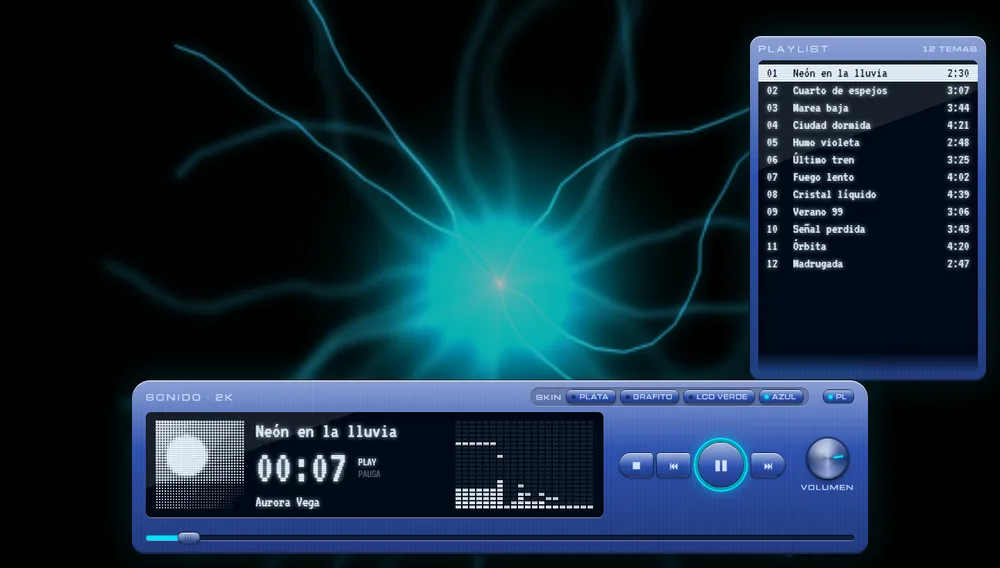
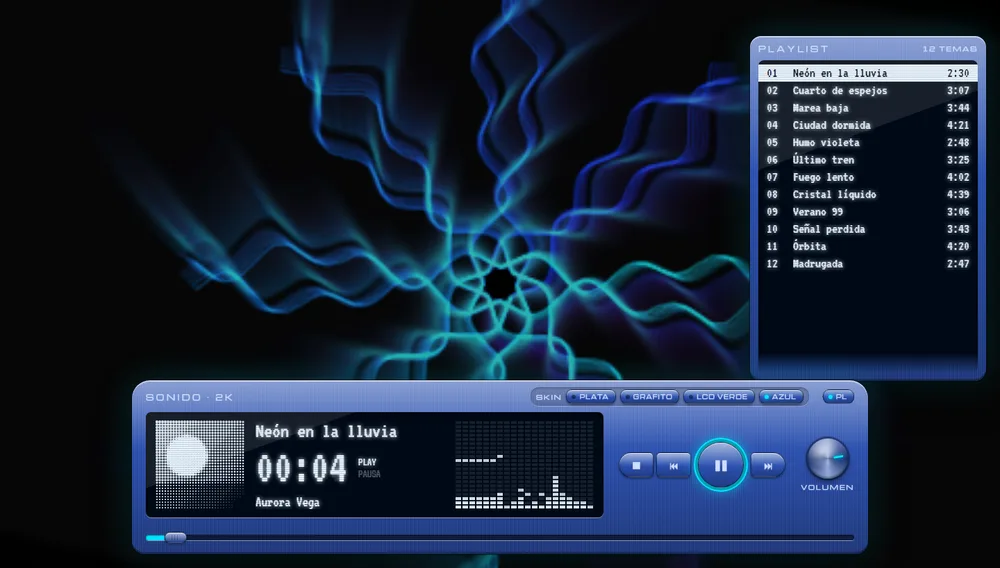
2000s: 10 visualizaciones repartidas por skin, fundido entre ellas y opcion de cada cuanto cambian

diff --git a/web/visu2000.js b/web/visu2000.js
@@ -1,85 +1,185 @@
-// Visualización estilo reproductores de los 2000 (Windows Media Player / Winamp): fondo de la plantilla 2000s y opción
-// "Visualización 2000" de las plantillas propias. Todo se dibuja en vivo con la música a baja resolución y se estira
-// (se ve suave y brillante, como entonces). La "retroalimentación" (cada cuadro redibuja el anterior un poco más grande,
-// girado y desvanecido) es lo que hace los túneles y las estelas. Rota entre 3 modos: al cambiar de tema y cada 40 s.
-// crearVisu2000(canvas) → { dibujar(t, espectro, onda, bajo, medio, agudo, tono), siguiente() }
+// Visualizaciones estilo reproductores de los 2000 (Windows Media Player, Winamp, Sonique): fondo de la plantilla 2000s
+// y opción "Visualización 2000" de las plantillas propias. Se dibujan en vivo con la música a baja resolución y se estiran
+// (se ven suaves y brillantes, como entonces). La "retroalimentación" (cada cuadro redibuja el anterior un poco más
+// grande, girado y desvanecido) hace los túneles y las estelas. Entre un efecto y otro hay un fundido de 2 s.
+// crearVisu2000(canvas) → { grupo([efectos]), intervalo(seg, 0 = solo al cambiar de canción), siguiente(),
+//                           dibujar(t, espectro, onda, bajo, medio, agudo, tono) }
 "use strict";
+const VISU2000 = ["estrellas", "anillos", "barras", "bateria", "chispas", "remolino", "rayos", "onda", "agua", "caleido"];
 function crearVisu2000(canvas) {
-  const W = 480, H = 270, CX = W / 2, CY = H / 2;
+  const W = 480, H = 270, CX = W / 2, CY = H / 2, FUNDIDO = 2;
+  const lienzo = () => { const c = document.createElement("canvas"); c.width = W; c.height = H; return c; };
   canvas.width = W; canvas.height = H;
-  const g = canvas.getContext("2d"), copia = document.createElement("canvas"); copia.width = W; copia.height = H;
-  const c2 = copia.getContext("2d");
-  g.fillStyle = "#000"; g.fillRect(0, 0, W, H);
-  const MODOS = ["bateria", "rayos", "alquimia"];
-  let modo = 0, desde = 0, prom = 0, golpe = 0, giro = 0;
+  const o = canvas.getContext("2d"), trabajo = lienzo(), g = trabajo.getContext("2d"), copia = lienzo(), c2 = copia.getContext("2d"), viejo = lienzo();
+  const negro = (ctx) => { ctx.fillStyle = "#000"; ctx.fillRect(0, 0, W, H); };
+  negro(g); negro(o);
+  let lista = VISU2000.slice(), modo = 0, cada = 45, desde = 0, ahora = 0, cambio = -99, prom = 0, golpe = 0, giro = 0;
+  let estrellas = [], anillos = [], chispas = [], gotas = [], ultimoAnillo = 0;
 
-  // redibuja el cuadro anterior transformado: zoom > 1 = túnel hacia afuera; filtro = humo / cambio de color
+  // redibuja el cuadro anterior transformado: zoom > 1 = túnel hacia afuera; filtro = humo o cambio de color
   function eco(zoom, rot, alfa, filtro) {
-    c2.clearRect(0, 0, W, H); c2.drawImage(canvas, 0, 0);
-    g.fillStyle = "#000"; g.fillRect(0, 0, W, H);
+    c2.clearRect(0, 0, W, H); c2.drawImage(trabajo, 0, 0); negro(g);
     g.save(); g.filter = filtro || "none"; g.globalAlpha = alfa;
     g.translate(CX, CY); g.rotate(rot); g.scale(zoom, zoom); g.drawImage(copia, -CX, -CY);
     g.restore(); g.filter = "none"; g.globalAlpha = 1;
   }
   const col = (h, l, a) => `hsla(${h},100%,${l}%,${a})`;
   const banda = (d, i, n) => { const a = Math.floor(2 * Math.pow(90, i / n)), b = Math.max(a + 1, Math.floor(2 * Math.pow(90, (i + 1) / n))); let s = 0; for (let k = a; k < b; k++) s += d[k] || 0; return Math.min(1, s / (b - a) / 200); };
+  const sumar = (f) => { g.globalCompositeOperation = "lighter"; f(); g.globalCompositeOperation = "source-over"; };
 
-  function bateria(t, d, bajo, tono) {
-    giro += .004 + bajo * .02;
-    eco(1.035 + bajo * .05, .015 + bajo * .03, .945);
-    g.globalCompositeOperation = "lighter";
-    const N = 64;
-    for (let i = 0; i < N; i++) {
-      const v = banda(d, i % (N / 2), N / 2), a = i / N * Math.PI * 2 + giro, r0 = 6 + bajo * 10, r1 = r0 + 22 + v * 110;
-      g.strokeStyle = col(tono + Math.sin(i * .35 + t) * 35, 40 + v * 12, .2 + v * .35); g.lineWidth = 1.5 + v * 3;
-      g.beginPath(); g.moveTo(CX + Math.cos(a) * r0, CY + Math.sin(a) * r0); g.lineTo(CX + Math.cos(a) * r1, CY + Math.sin(a) * r1); g.stroke();
-    }
-    g.globalCompositeOperation = "source-over";
-    g.fillStyle = "#000"; g.beginPath(); g.arc(CX, CY, 5 + bajo * 8, 0, 7); g.fill();   // el "ojo" negro del túnel
+  const EFECTOS = {
+    // Plata: estrellas warp, túnel de anillos, barras y ondas
+    estrellas(t, x) {
+      eco(1, 0, .72);
+      if (!estrellas.length) estrellas = Array.from({ length: 260 }, () => ({ x: Math.random() * 2 - 1, y: Math.random() * 2 - 1, z: Math.random() }));
+      sumar(() => {
+        g.lineWidth = 1.2;
+        for (const e of estrellas) {
+          const z0 = e.z; e.z -= .006 + x.bajo * .03 + golpe * .02;
+          if (e.z <= .02) { e.x = Math.random() * 2 - 1; e.y = Math.random() * 2 - 1; e.z = 1; continue; }
+          const px = (z) => [CX + e.x / z * CX * .5, CY + e.y / z * CY * .5], [a, b] = px(z0), [c, d] = px(e.z);
+          g.strokeStyle = col(x.tono + e.x * 30, 55 + (1 - e.z) * 20, .3 + (1 - e.z) * .6);
+          g.beginPath(); g.moveTo(a, b); g.lineTo(c, d); g.stroke();
+        }
+      });
+    },
+    anillos(t, x) {
+      eco(1.01, .01, .8);
+      if (golpe > .95 || t - ultimoAnillo > .45) { anillos.push({ r: 3, lados: 6, rot: t }); ultimoAnillo = t; }
+      sumar(() => {
+        for (let i = anillos.length - 1; i >= 0; i--) {
+          const a = anillos[i]; a.r *= 1.035 + x.bajo * .04; if (a.r > W) { anillos.splice(i, 1); continue; }
+          g.strokeStyle = col(x.tono + a.r * .3, 50, Math.min(.7, a.r / 60)); g.lineWidth = 1 + a.r / 60; g.beginPath();
+          for (let k = 0; k <= a.lados; k++) { const an = a.rot + k / a.lados * Math.PI * 2; g.lineTo(CX + Math.cos(an) * a.r, CY + Math.sin(an) * a.r * .8); }
+          g.stroke();
+        }
+      });
+    },
+    barras(t, x) {
+      eco(1, 0, .55);
+      const n = 32, a = W / n, piso = H * .62;
+      sumar(() => {
+        for (let i = 0; i < n; i++) {
+          const v = banda(x.d, i, n), alto = 4 + v * piso * .9;
+          g.fillStyle = col(x.tono + i * 2, 45 + v * 15, .55); g.fillRect(i * a + 1, piso - alto, a - 2, alto);
+          g.fillStyle = col(x.tono + i * 2, 40, .18); g.fillRect(i * a + 1, piso + 2, a - 2, alto * .45);   // reflejo
+        }
+        g.strokeStyle = col(x.tono + 40, 60, .6); g.lineWidth = 1.2; g.beginPath();
+        for (let i = 0; i < x.onda.length; i += 6) { const px = i / x.onda.length * W, py = H * .25 + (x.onda[i] - 128) / 128 * H * .18; i ? g.lineTo(px, py) : g.moveTo(px, py); }
+        g.stroke();
+      });
+    },
+    // Grafito: batería, fuente de chispas, remolino de plasma
+    bateria(t, x) {
+      giro += .004 + x.bajo * .02;
+      eco(1.035 + x.bajo * .05, .015 + x.bajo * .03, .945);
+      sumar(() => {
+        const N = 64;
+        for (let i = 0; i < N; i++) {
+          const v = banda(x.d, i % (N / 2), N / 2), a = i / N * Math.PI * 2 + giro, r0 = 6 + x.bajo * 10, r1 = r0 + 22 + v * 110;
+          g.strokeStyle = col(x.tono + Math.sin(i * .35 + t) * 35, 40 + v * 12, .2 + v * .35); g.lineWidth = 1.5 + v * 3;
+          g.beginPath(); g.moveTo(CX + Math.cos(a) * r0, CY + Math.sin(a) * r0); g.lineTo(CX + Math.cos(a) * r1, CY + Math.sin(a) * r1); g.stroke();
+        }
+      });
+      g.fillStyle = "#000"; g.beginPath(); g.arc(CX, CY, 5 + x.bajo * 8, 0, 7); g.fill();   // el "ojo" negro del túnel
+    },
+    chispas(t, x) {
+      eco(1, 0, .8, "blur(.5px)");
+      for (let k = 0, n = 2 + Math.round(x.bajo * 6 + golpe * 22); k < n; k++)
+        chispas.push({ x: CX + (Math.random() - .5) * 20, y: H * .95, vx: (Math.random() - .5) * 3, vy: -(2.5 + Math.random() * 3.5) * (1 + x.bajo), v: 1 });
+      sumar(() => {
+        for (let i = chispas.length - 1; i >= 0; i--) {
+          const c = chispas[i]; c.x += c.vx; c.y += c.vy; c.vy += .09; c.v -= .008;
+          if (c.v <= 0 || c.y > H) { chispas.splice(i, 1); continue; }
+          g.fillStyle = col(x.tono + (1 - c.v) * 40, 45 + c.v * 15, c.v * .8); g.fillRect(c.x, c.y, 2, 2);
+        }
+      });
+      if (chispas.length > 1500) chispas.splice(0, chispas.length - 1500);
+    },
+    remolino(t, x) {
+      eco(1.008, .03 + x.bajo * .03, .96, "blur(1px)");
+      sumar(() => {
+        for (let k = 0; k < 5; k++) {
+          const a = t * (.6 + k * .15) + k * 1.26, r = 20 + x.medio * 70 + 15 * Math.sin(t + k), px = CX + Math.cos(a) * r, py = CY + Math.sin(a) * r * .7, s = 14 + x.bajo * 26;
+          const m = g.createRadialGradient(px, py, 0, px, py, s); m.addColorStop(0, col(x.tono + k * 12 - 25, 50, .22)); m.addColorStop(1, col(x.tono, 30, 0));
+          g.fillStyle = m; g.fillRect(px - s, py - s, s * 2, s * 2);
+        }
+      });
+    },
+    // LCD verde: rayos y onda
+    rayos(t, x) {
+      eco(1.012, .004, .9, "blur(1.4px)");
+      sumar(() => {
+        const r = 40 + x.bajo * 70, nube = g.createRadialGradient(CX, CY, 0, CX, CY, r);
+        nube.addColorStop(0, col(x.tono, 62, .28 + x.bajo * .25)); nube.addColorStop(.4, col(x.tono, 48, .16)); nube.addColorStop(1, col(x.tono, 30, 0));
+        g.fillStyle = nube; g.fillRect(0, 0, W, H);
+        for (let k = 0; k < 6; k++) {   // humo que se arremolina alrededor del centro
+          const a = t * .7 + k * 1.05, rr = 25 + 18 * Math.sin(t * 1.3 + k), px = CX + Math.cos(a) * rr, py = CY + Math.sin(a) * rr * .8, s = 18 + x.bajo * 30;
+          const m = g.createRadialGradient(px, py, 0, px, py, s); m.addColorStop(0, col(x.tono + 15, 50, .08 + x.agudo * .1)); m.addColorStop(1, col(x.tono, 40, 0));
+          g.fillStyle = m; g.fillRect(px - s, py - s, s * 2, s * 2);
+        }
+        g.strokeStyle = col(x.tono + 10, 64, .7); g.shadowColor = col(x.tono, 50, .9); g.shadowBlur = 6; g.lineWidth = 1.2;
+        for (let k = 0, n = 1 + Math.round(golpe * 4 + x.agudo * 2); k < n; k++) {   // relámpagos del centro hacia afuera
+          let a = Math.random() * Math.PI * 2, px = CX, py = CY; g.beginPath(); g.moveTo(px, py);
+          for (let s = 0; s < 14; s++) { a += (Math.random() - .5) * .9; px += Math.cos(a) * 14; py += Math.sin(a) * 14; g.lineTo(px, py); }
+          g.stroke();
+        }
+        g.shadowBlur = 0;
+      });
+    },
+    onda(t, x) {
+      eco(1.02 + x.bajo * .02, -.02, .95, "blur(.6px) hue-rotate(4deg)");
+      sumar(() => {
+        for (let rep = 0; rep < 2; rep++) {   // la onda real en cruz; la retroalimentación la vuelve remolino
+          g.save(); g.translate(CX, CY); g.rotate(t * .5 + rep * Math.PI / 2);
+          g.strokeStyle = col(x.tono + rep * 50, 55, .6); g.lineWidth = 1.6; g.beginPath();
+          for (let i = 0; i < x.onda.length; i += 4) { const px = (i / x.onda.length - .5) * W * .7, py = (x.onda[i] - 128) / 128 * H * .35 * (1 + x.bajo); i ? g.lineTo(px, py) : g.moveTo(px, py); }
+          g.stroke(); g.restore();
+        }
+      });
+    },
+    // Azul: ondas de agua y caleidoscopio
+    agua(t, x) {
+      eco(.998, 0, .9, "blur(1.2px)");
+      if (golpe > .95 || Math.random() < .03 + x.medio * .1) gotas.push({ x: Math.random() * W, y: Math.random() * H, r: 1, f: .6 + x.bajo * .4 });
+      sumar(() => {
+        for (let i = gotas.length - 1; i >= 0; i--) {
+          const a = gotas[i]; a.r += 1.4 + a.f; a.f *= .985; if (a.f < .05 || a.r > W * .6) { gotas.splice(i, 1); continue; }
+          for (let k = 0; k < 2; k++) { g.strokeStyle = col(x.tono + k * 20, 55, a.f * .55 / (k + 1)); g.lineWidth = 1.5; g.beginPath(); g.ellipse(a.x, a.y, a.r * (1 - k * .25), a.r * .55 * (1 - k * .25), 0, 0, 7); g.stroke(); }
+        }
+      });
+    },
+    caleido(t, x) {
+      eco(1.012, .012, .9, "hue-rotate(2deg)");
+      const N = 8, R = H * .55;
+      sumar(() => {
+        g.lineWidth = 1.4;
+        for (let k = 0; k < N; k++) for (const lado of [1, -1]) {   // un trozo de la onda repetido en espejo alrededor del centro
+          g.save(); g.translate(CX, CY); g.rotate(k / N * Math.PI * 2 + t * .2); g.scale(1, lado);
+          g.strokeStyle = col(x.tono + k * 6, 52, .45); g.beginPath();
+          for (let i = 0; i < 64; i++) { const v = (x.onda[i * 8] - 128) / 128; i ? g.lineTo(i / 64 * R, 8 + v * R * .35 * (1 + x.bajo)) : g.moveTo(0, 8); }
+          g.stroke(); g.restore();
+        }
+      });
+    },
+  };
+
+  function cambiar() {
+    const v = viejo.getContext("2d"); v.clearRect(0, 0, W, H); v.drawImage(canvas, 0, 0);   // el efecto anterior se funde
+    negro(g); estrellas = []; anillos = []; chispas = []; gotas = [];
+    modo = (modo + 1) % lista.length; desde = ahora; cambio = ahora;
   }
-
-  function rayos(t, d, bajo, agudo, tono) {
-    eco(1.012, .004, .9, "blur(1.4px)");
-    g.globalCompositeOperation = "lighter";
-    const r = 40 + bajo * 70, nube = g.createRadialGradient(CX, CY, 0, CX, CY, r);
-    nube.addColorStop(0, col(tono, 62, .28 + bajo * .25)); nube.addColorStop(.4, col(tono, 48, .16)); nube.addColorStop(1, col(tono, 30, 0));
-    g.fillStyle = nube; g.fillRect(0, 0, W, H);
-    for (let k = 0; k < 6; k++) {   // humo: manchas que se arremolinan alrededor del centro
-      const a = t * .7 + k * 1.05, rr = 25 + 18 * Math.sin(t * 1.3 + k), x = CX + Math.cos(a) * rr, y = CY + Math.sin(a) * rr * .8, s = 18 + bajo * 30;
-      const m = g.createRadialGradient(x, y, 0, x, y, s); m.addColorStop(0, col(tono + 15, 50, .08 + agudo * .1)); m.addColorStop(1, col(tono, 40, 0));
-      g.fillStyle = m; g.fillRect(x - s, y - s, s * 2, s * 2);
-    }
-    const n = 1 + Math.round(golpe * 4 + agudo * 2);
-    g.strokeStyle = col(tono + 10, 64, .7); g.shadowColor = col(tono, 50, .9); g.shadowBlur = 6; g.lineWidth = 1.2;
-    for (let k = 0; k < n; k++) {   // relámpagos: líneas quebradas del centro hacia afuera
-      let a = Math.random() * Math.PI * 2, x = CX, y = CY; g.beginPath(); g.moveTo(x, y);
-      for (let s = 0; s < 14; s++) { a += (Math.random() - .5) * .9; x += Math.cos(a) * 14; y += Math.sin(a) * 14; g.lineTo(x, y); }
-      g.stroke();
-    }
-    g.shadowBlur = 0; g.globalCompositeOperation = "source-over";
-  }
-
-  function alquimia(t, onda, bajo, tono) {
-    eco(1.02 + bajo * .02, -.02, .95, "blur(.6px) hue-rotate(4deg)");
-    g.globalCompositeOperation = "lighter";
-    for (let rep = 0; rep < 2; rep++) {   // la onda real, dos veces en cruz, que la retroalimentación convierte en remolino
-      g.save(); g.translate(CX, CY); g.rotate(t * .5 + rep * Math.PI / 2);
-      g.strokeStyle = col(tono + rep * 50, 55, .6); g.lineWidth = 1.6; g.beginPath();
-      for (let i = 0; i < onda.length; i += 4) { const x = (i / onda.length - .5) * W * .7, y = (onda[i] - 128) / 128 * H * .35 * (1 + bajo); i ? g.lineTo(x, y) : g.moveTo(x, y); }
-      g.stroke(); g.restore();
-    }
-    g.globalCompositeOperation = "source-over";
-  }
-
   return {
-    siguiente() { modo = (modo + 1) % MODOS.length; desde = 0; },
+    grupo(l) { const nueva = (l || VISU2000).filter(e => EFECTOS[e]); if (nueva.join() !== lista.join()) { lista = nueva.length ? nueva : VISU2000.slice(); modo = -1; cambiar(); } },
+    intervalo(s) { cada = s; },
+    siguiente: cambiar,
     dibujar(t, d, onda, bajo, medio, agudo, tono) {
+      ahora = t; if (!desde) desde = t;
       prom = prom * .94 + bajo * .06; if (bajo > prom * 1.22 + .07) golpe = 1; golpe *= .86;
-      if (!desde) desde = t; else if (t - desde > 40) { modo = (modo + 1) % MODOS.length; desde = t; }
-      const m = MODOS[modo];
-      if (m === "bateria") bateria(t, d, bajo, tono);
-      else if (m === "rayos") rayos(t, d, bajo, agudo, tono);
-      else alquimia(t, onda, bajo, tono);
+      if (cada > 0 && t - desde > cada) cambiar();
+      EFECTOS[lista[modo]](t, { d, onda, bajo, medio, agudo, tono });
+      o.globalAlpha = 1; o.drawImage(trabajo, 0, 0);
+      const f = 1 - (t - cambio) / FUNDIDO; if (f > 0 && f <= 1) { o.globalAlpha = f; o.drawImage(viejo, 0, 0); o.globalAlpha = 1; }
     },
   };
 }

diff --git a/web/dosmil.html b/web/dosmil.html
@@ -164,14 +164,15 @@ const visu = crearVisu2000(document.getElementById("tunel"));
 document.getElementById("tunel").style.filter = `brightness(${Props.extra("dosmil", "tunel") / 100})`;
 document.getElementById("tunel").onclick = () => visu.siguiente();
 let tonoSkin = 210;
+visu.intervalo([20, 45, 90, 0][Props.extra("dosmil", "cambio")] ?? 45);
 R.alCambiar(() => visu.siguiente());
 const $ = (id) => document.getElementById(id);
 const raiz = document.documentElement.style;
 const SKINS = {
-  "Plata":     { metal: "#c3c9d3", grabado: "#3b4250", lcd: "#06131f", tinta: "#7fdcff", acento: "#3fa9ff" },
-  "Grafito":   { metal: "#3b3e46", grabado: "#aeb2bb", lcd: "#140a00", tinta: "#ffb000", acento: "#ff6a00" },
-  "LCD verde": { metal: "#b4bba6", grabado: "#3d4535", lcd: "#a3b585", tinta: "#16220e", acento: "#5bd13a" },
-  "Azul":      { metal: "#2b4fae", grabado: "#d2deff", lcd: "#000a18", tinta: "#e6f3ff", acento: "#00e5ff" },
+  "Plata":     { metal: "#c3c9d3", grabado: "#3b4250", lcd: "#06131f", tinta: "#7fdcff", acento: "#3fa9ff", visu: ["estrellas", "anillos", "barras"] },
+  "Grafito":   { metal: "#3b3e46", grabado: "#aeb2bb", lcd: "#140a00", tinta: "#ffb000", acento: "#ff6a00", visu: ["bateria", "chispas", "remolino"] },
+  "LCD verde": { metal: "#b4bba6", grabado: "#3d4535", lcd: "#a3b585", tinta: "#16220e", acento: "#5bd13a", visu: ["rayos", "onda"] },
+  "Azul":      { metal: "#2b4fae", grabado: "#d2deff", lcd: "#000a18", tinta: "#e6f3ff", acento: "#00e5ff", visu: ["agua", "caleido"] },
 };
 const rgb = (h) => [1, 3, 5].map(i => parseInt(h.slice(i, i + 2), 16));
 const luz = ([r, g, b]) => (0.299 * r + 0.587 * g + 0.114 * b) / 255;
@@ -181,6 +182,7 @@ function usarSkin(nombre) {
   skin = SKINS[nombre] || SKINS.Plata;
   for (const k of ["metal", "grabado", "lcd", "tinta", "acento"]) raiz.setProperty("--" + k, skin[k]);
   const [r, g, b] = rgb(skin.acento).map(x => x / 255), mx = Math.max(r, g, b), dd = mx - Math.min(r, g, b);
+  visu.grupo(skin.visu);   // cada skin tiene sus propias visualizaciones
   tonoSkin = !dd ? 0 : mx === r ? 60 * (((g - b) / dd) % 6) : mx === g ? 60 * ((b - r) / dd + 2) : 60 * ((r - g) / dd + 4);
   // LCD de fondo oscuro: la tinta brilla. LCD claro (verde): tinta opaca, sin brillo.
   raiz.setProperty("--brilloLcd", luz(rgb(skin.tinta)) > luz(rgb(skin.lcd)) ? "0 0 6px var(--tinta)" : "none");

diff --git a/web/index.html b/web/index.html
@@ -247,7 +247,7 @@ function pintarProps() {
   caja.appendChild(ctl("Intensidad de los visuales", "intensidad", v => v === 50 ? "normal" : v));
   caja.appendChild(ctl("Velocidad de las animaciones", "velocidad", v => v === 50 ? "normal" : v));
   (Props.EXTRAS[actual.id] || []).forEach(x => {
-    const val = props.extra && props.extra[x.id] !== undefined ? props.extra[x.id] : x.def, texto = v => `${v}${x.unidad || ""}`;
+    const val = props.extra && props.extra[x.id] !== undefined ? props.extra[x.id] : x.def, texto = v => x.etiquetas ? x.etiquetas[v] : `${v}${x.unidad || ""}`;
     caja.appendChild(fila(x.nombre, val, texto(val), (v, r) => { r.parentElement.querySelector("b").textContent = texto(v); props.extra = { ...(props.extra || {}), [x.id]: v }; Props.guardar(actual.id, props); refrescar(); }, x));
   });
   [["Mostrar la lista de temas", "lista"], ["Ocultar los controles tras 3 s sin mover el mouse", "soloVisual"]].forEach(([texto, campo]) => {

diff --git a/web/propiedades.js b/web/propiedades.js
@@ -13,7 +13,8 @@ const Props = (() => {
   const EXTRAS = {
     liquido: [{ id: "deformacion", nombre: "Fuerza de la deformación del vidrio", min: 0, max: 140, def: 70, unidad: "" }],
     headspace: [{ id: "burbujas", nombre: "Cantidad de burbujas", min: 0, max: 80, def: 34, unidad: "" }],
-    dosmil: [{ id: "tunel", nombre: "Brillo de la visualización de fondo", min: 20, max: 130, def: 70, unidad: " %" }],
+    dosmil: [{ id: "tunel", nombre: "Brillo de la visualización de fondo", min: 20, max: 130, def: 70, unidad: " %" },
+      { id: "cambio", nombre: "Cambiar de visualización", min: 0, max: 3, def: 1, etiquetas: ["cada 20 s", "cada 45 s", "cada 90 s", "solo al cambiar de canción"] }],
     ambiente: [{ id: "desenfoque", nombre: "Desenfoque del fondo", min: 10, max: 140, def: 70, unidad: " px" }],
     pixel: [{ id: "pixel", nombre: "Tamaño de los píxeles", min: 3, max: 9, def: 5, unidad: " px" }],
   };
